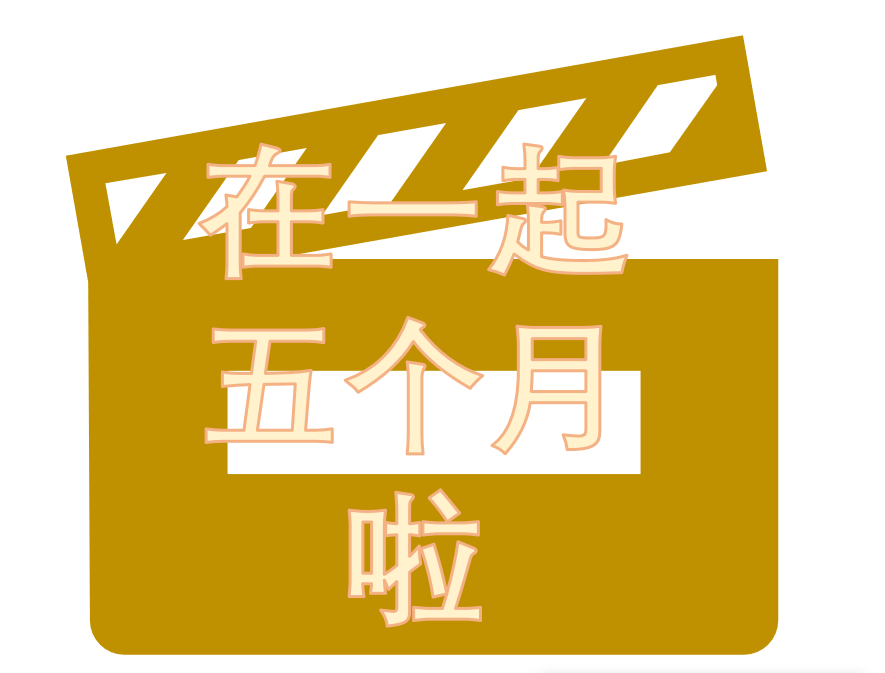
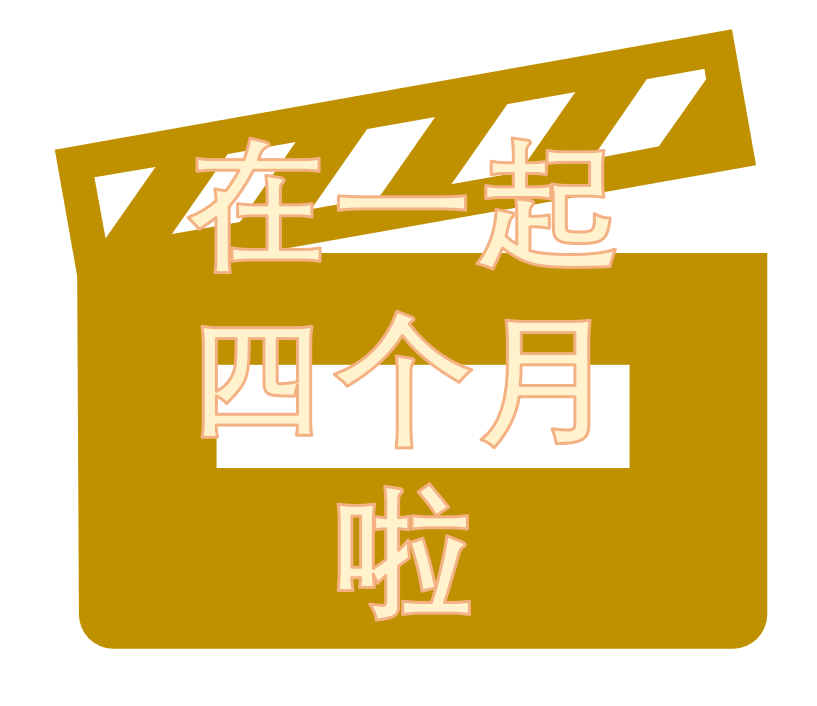
done for now

Changed region(s): [[0.0612, 0.0312, 0.9486, 0.9985], [0.6426, 0.0624, 0.765, 0.0936], [0.1224, 0.312, 0.153, 0.3744]]

diff --git a/index.html b/index.html
@@ -4,7 +4,7 @@
     <meta charset="UTF-8">
     <meta name="viewport"
           content="width=device-width, initial-scale=1.0,maximum-scale=1.0, user-scalable=no,minimal-ui">
-    <title>我们在一起五个月啦</title>
+    <title>我们在一起四个月啦</title>
     <style>
         * {
             margin: 0;
